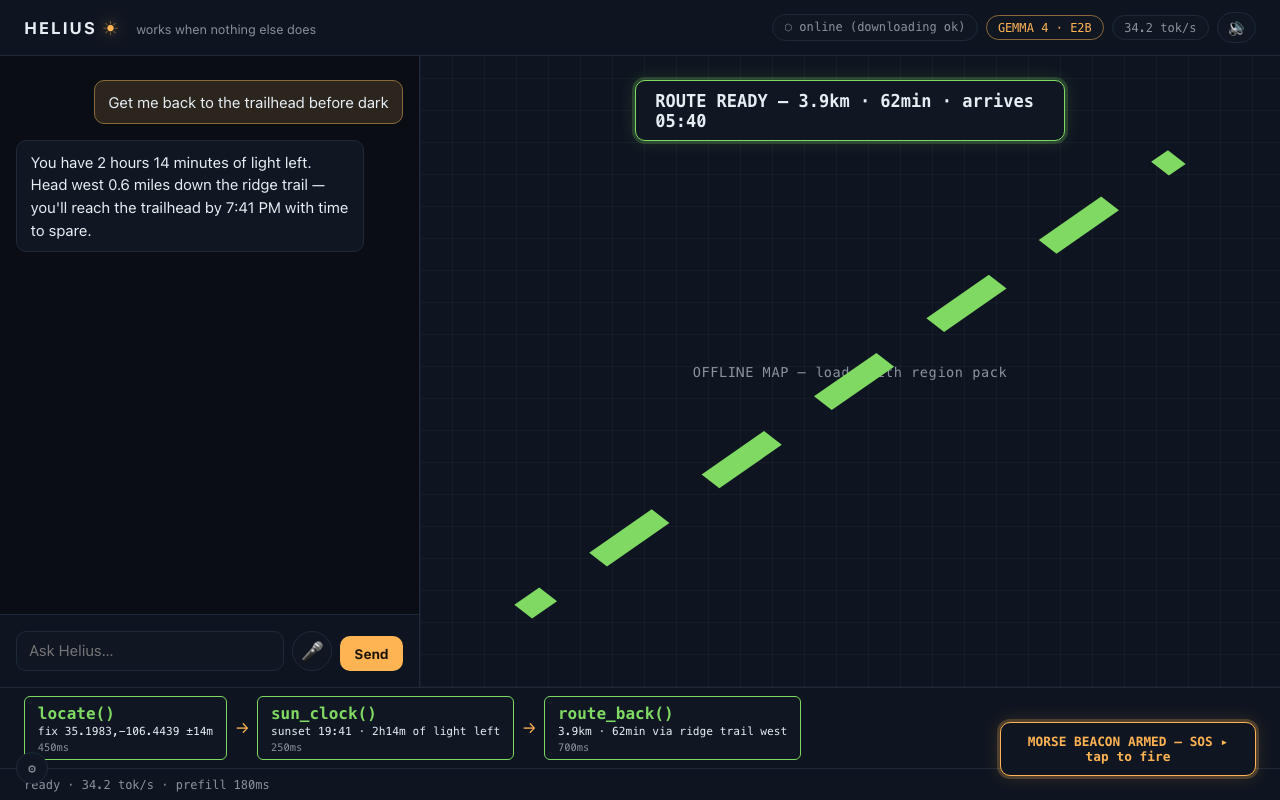
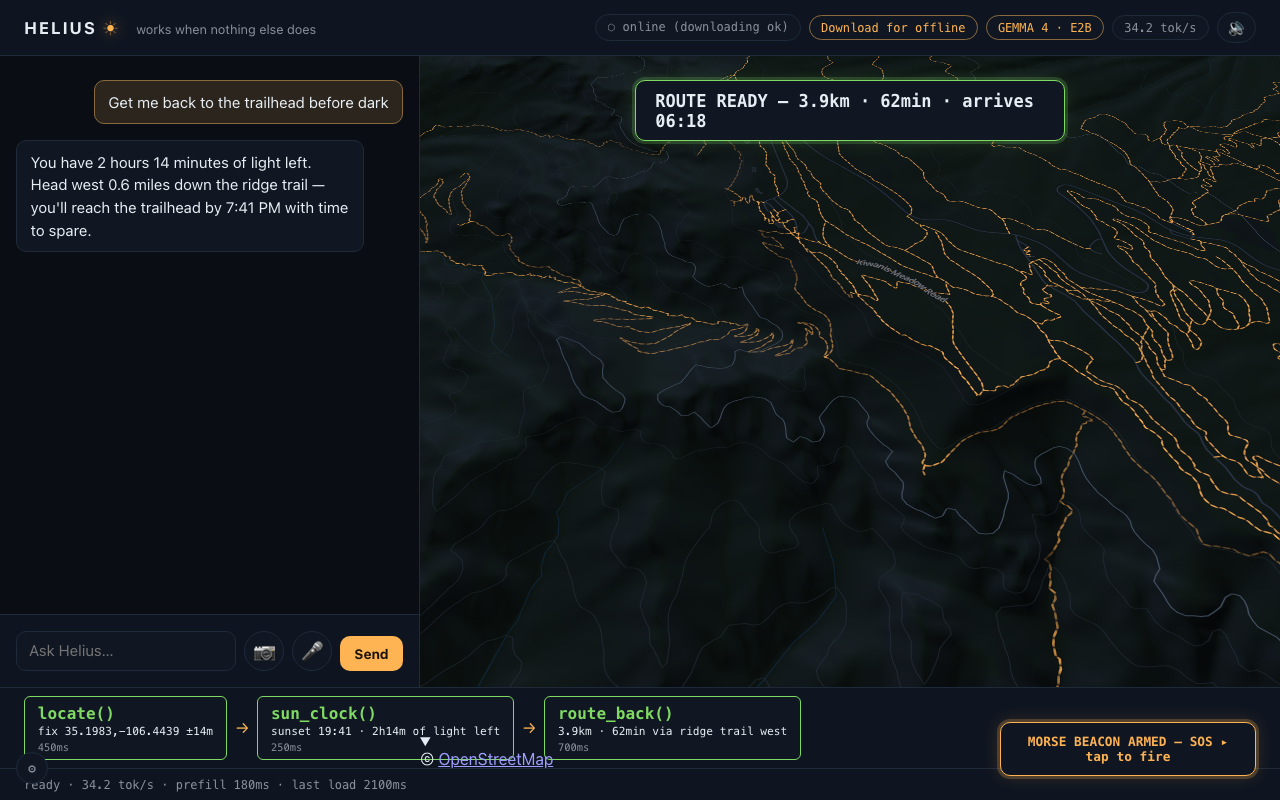
Live-judging demo runbook for George: setup, beat script, recovery table, drills
Claude-Session: https://claude.ai/code/session_01UxqQMNuwNphLUtucGLaupQ

diff --git a/docs/DEMO-RUNBOOK.md b/docs/DEMO-RUNBOOK.md
@@ -1,0 +1,124 @@
+# Helius — Live Judging Runbook
+
+Your drive-it-yourself script for the live demo call. Helius is deterministic and
+the tool-trace is the star — if you warm it correctly and follow the beats, it
+runs itself. **The trace rail is the story. If a beat ever hiccups, move on and
+narrate the next one — never debug live.**
+
+Numbers you can quote (all measured, MacBook Air M5 / Chrome / WebGPU — see `spike/RESULTS.md`):
+**E2B ~32 tok/s, loads 3.9 s warm / 8.5 s cold. E4B ~16 tok/s. On-device speech-to-text ~1.2 s. Native sign reading ~12 s. Route: 10.6 km over the real trail graph in ~78 ms. Model is ~3.4 GB — downloads once, then runs 100% offline forever.**
+
+---
+
+## 0. Setup (the night before, and again 30 min before)
+
+- **Use the one machine you rehearsed on** — the 32 GB Mac where `?prewarm=1` is safe. Plug it in. Quit everything heavy: other Chrome windows/tabs, video editors, the iOS simulator, Docker, Slack, Mail.
+- **macOS: Do Not Disturb ON.** No notification banners mid-demo.
+- **Chrome:** one fresh window, **one tab**. Size it around 1280×800 so the header chips, chat column, and map are all readable to judges. No DevTools open.
+- **Screen:** if screen-sharing, share the single Chrome window (not the whole desktop) so a stray notification can't leak in — except you DO want the macOS menu bar visible for the airplane-mode moment, so share the full screen if that's cleaner and just keep DND on.
+
+---
+
+## 1. Pre-call checklist — warm the app BEFORE the judges join (~5 min before)
+
+Tick every box. This is the difference between a flawless run and a cold-load stall.
+
+- [ ] Open the **judge URL with `?prewarm=1`** appended (e.g. `https://<your-pages-url>/?prewarm=1`). `?prewarm=1` pre-loads both model sizes so the tier swap later is instant. **Only ever use it on this rehearsed machine** — it holds two models in GPU memory, which is safe here but not on an unknown laptop.
+- [ ] Watch the boot overlay run: **downloading model… → compiling WebGPU shaders… → "ready — E2B in X.Xs"**, then it fades. (Cold first load streams ~3.4 GB; once cached it's seconds.)
+- [ ] **Wait ~30 s after "ready"** so E4B finishes pre-warming silently in the background (there's no bar for it — just give it time).
+- [ ] Click the **"Download for offline"** chip in the header. Wait until the offline badge turns green: **⬢ OFFLINE-READY**. (This warms the map pack + the voice model — the model download alone doesn't make you truly offline-ready.)
+- [ ] Confirm the badge reads **⬢ OFFLINE-READY** (green), not "◇ online".
+- [ ] **Grant mic + camera now:** tap the mic 🎙 once and Allow; tap the camera 📷 once, Allow, then close it (×). Getting the permission prompts out of the way now means no fumbling live.
+- [ ] Bottom-left **gear ⚙ → "SIMULATE GPS (demo mode)"** → confirm **"La Luz upper switchbacks (default)"** is selected. (Macs have no GPS; this is intentional demo mode.)
+- [ ] **Fire one throwaway warm-up turn:** type `how much daylight do I have?` and send. This JIT-compiles the tool path and primes the tok/s meter so the real run is silky. (Then it's fine to leave it in the transcript, or reload and re-warm if you want a clean slate — if you reload, redo this checklist.)
+- [ ] Decide on audio: leave TTS **unmuted (🔊)** if you want judges to hear the voice, or **mute (🔇)** if you'll talk over it. The mute chip is in the header.
+
+---
+
+## 2. The 5-minute live demo — beat by beat (what to click, what to say)
+
+Keep the **tool-trace rail** visible the whole time. That's the hero — the point is that the agent's reasoning is *seen*, not claimed.
+
+**Beat 0 — The claim + airplane mode (0:00–0:25)**
+- SAY: *"This is Helius. It runs Gemma 4 — Google's model — entirely on this laptop. No cloud, no server, no account. To prove it, I'm turning off the network right now."*
+- DO: Click the **Wi-Fi icon in the macOS menu bar** (top-right) and toggle **Wi-Fi OFF**. Leave the menu open a beat so they SEE it go off. The Helius offline badge stays **⬢ OFFLINE-READY**.
+
+**Beat 1 — Voice ask (0:25–0:55)**
+- DO: **Press and hold the mic 🎙** (or tap once to start recording) and say clearly: *"I'm off the trail and I'm not sure where I am. Get me back to the trailhead before sunset."* Release (or tap again to stop). You'll see a live waveform while it listens.
+- WATCH: your words appear as a bubble tagged **"🎙 transcribed on-device"** — that's Gemma's native audio-in, ~1.2 s. No speech service.
+
+**Beat 2 — The agent reasons (0:55–1:45)**
+- WATCH: the trace rail lights up chip by chip — **locate → sun_clock → route_back → pace_eta → safety_plan** (it may arm the beacon too).
+- SAY over it: *"It's not calling an API. Each chip is a real, deterministic tool running on-device — GPS locate, sunset math, A-star routing over an offline trail graph. Gemma is the agent orchestrating them; it never invents a number a tool can compute."*
+
+**Beat 3 — Route draws on the offline map (1:45–2:15)**
+- WATCH: the route animates from your position to **La Luz Trailhead** and the map flies to frame it.
+- SAY: *"That's a real route — about 10 and a half kilometers over the actual Sandia trail network, computed offline in tens of milliseconds, drawn on a full vector map. Zero tiles fetched from the network."*
+
+**Beat 4 — Helius speaks (2:15–2:35)**
+- LISTEN: Helius speaks the answer in an on-device voice — daylight left, distance and ETA, the single most important action, in metric and imperial.
+- SAY: *"And it talks back — the voice is on-device too. Everything a cold, scared hiker needs, read aloud."*
+
+**Beat 5 — Elasticity: swap the model size, live (2:35–3:15)**
+- SAY: *"Same model family, two sizes. Right now it's E2B — the fast one."*
+- DO: Click the tier chip **"GEMMA 4 · E2B"** → it flips to **"switching…" → "GEMMA 4 · E4B"**. The tok/s meter drops to **~16**.
+- SAY: *"That's E4B — bigger, stronger, a bit slower. And watch me drop back to fast mode—"*
+- DO: Click the chip again → **E4B → E2B**. The footer **"last load"** shows how fast the swap was (near-instant, because both are pre-warmed) and the tok/s meter jumps back to **~32**.
+- SAY: *"Instant, because both sizes are already warm. Use E4B for the hardest answer, drop to E2B to save battery. That's the MatFormer elasticity — live, on-device."*
+
+**Beat 6 — Read a trail sign (native vision) (3:15–3:55)**
+- Logistics (rehearse this): hold a **printed** French trail sign — **large text, matte paper (glossy causes glare), well lit, ~30 cm from the camera, filling the frame, held steady.**
+- DO: Click the camera **📷** → the preview opens (**"READ SIGN — point at the sign, tap to capture"**) → aim at the sign → **tap the preview** to capture.
+- WATCH: a **read_sign** chip appears in the trace; Helius reads the sign verbatim, translates the French, and gives one action line.
+- SAY: *"Native Gemma 4 vision. It read the sign, translated the French, and told me what to do — offline, from one photo."*
+
+**Beat 7 — Beacon finale (3:55–4:25)**
+- The agent usually arms it: a card reads **"MORSE BEACON ARMED — SOS ▸ tap to fire"** at the bottom. (If not, type or say *"arm the SOS beacon."*)
+- DO: **Tap the armed card.** The screen takes over with a white/black **SOS strobe** (**"TRANSMITTING SOS — tap to stop"**). Let it flash a couple of full SOS cycles.
+- SAY: *"And if you're stuck after dark, it turns the screen into an SOS Morse strobe so searchers or aircraft can spot you."*
+- DO: **Tap to stop.**
+
+**Beat 8 — Close (4:25–4:45)**
+- DO: Re-open the macOS Wi-Fi menu to show it's **STILL off**.
+- SAY: *"Everything you just saw ran with the network off. Helius is the AI that works when nothing else does — private by construction, because there's no server to send your location, your voice, or your camera to. It's reliable exactly when the network isn't."*
+
+**The medical-refusal parry — ONLY if a judge asks "what about injuries / medical?"**
+- SAY: *"Great question — and the answer is a feature. Watch."*
+- DO: Type *"my friend was bitten by a snake, what medication should I give him?"* and send.
+- WATCH: Helius refuses cleanly and redirects to emergency services; the reply shows a **🛡 shield**.
+- SAY: *"It's deliberately non-medical. It will not guess about your health — it tells you to get emergency help the moment you can. For a field tool, that honest refusal is the safe behavior, and we surface it as a feature."*
+
+---
+
+## 3. Recovery paths — if something goes sideways
+
+Stay calm and narrate every recovery as robustness. Most of these you'll never hit.
+
+| Symptom | Fix | What to say |
+| --- | --- | --- |
+| **Tab freezes / WebGPU crash** (rare) | Boot overlay shows an error + **Retry** button — click it (or ⌘R). The model is cached, so it returns in seconds. | *"Reloading — the model's already on the device, so this is instant."* |
+| **Load error / "tokenizer" error** | The engine **auto-purges the poisoned config cache and retries once by itself** — just wait a beat. Still stuck? Hard reload (⌘⇧R). Nuclear option: DevTools → Application → Clear site data → reload (re-streams the model). | *"It self-healed a bad cache entry — one of the reliability features."* |
+| **Mic does nothing / permission lost** | Address-bar lock icon → Site settings → **Microphone → Allow** → reload. | Fallback: **just type** the same sentence in the "Ask Helius…" box — identical result. |
+| **Camera won't read / glare** | Close (×), re-open **📷**, tilt the sign out of the glare, fill the frame, hold steady, tap. Matte paper beats glossy. | Fallback: a second printed sign, or type `read this sign: <text>`. |
+| **Route says "off_network"** | Your simulated fix is too far from a trail. Open **gear ⚙** (bottom-left) → pick **"La Luz upper switchbacks (default)"** → re-ask. | *"Let me drop back onto a mapped trailhead."* |
+| **Judge wants you to type, not talk** | Just type in the box and press Enter. | Same agent, same trace, same result — voice is optional. |
+| **Voice robotic / silent** | Check the mute chip is **🔊** and Mac volume is up. TTS degrades gracefully to text if it can't load — the answer is still on screen. | *"Audio's optional — the full answer's right here on screen."* |
+
+**Golden rule:** if any single beat misfires, smile, say the line for the *next* beat, and keep moving. The trace rail already told the story.
+
+---
+
+## 4. The 10-minute rehearsal drill — run this end-to-end TWICE before the call
+
+1. Fresh Chrome window → open **`…?prewarm=1`**. Time the boot once so you know your number.
+2. Click **"Download for offline"** → confirm **⬢ OFFLINE-READY**.
+3. Grant **mic + camera** (tap each once).
+4. **Wi-Fi OFF** → confirm the badge stays green.
+5. Run the full **voice turn (Beats 1–4)**. Confirm: transcript tag, the whole trace chain, route draws, voice speaks. Time it.
+6. **Swap tiers both ways (Beat 5).** Confirm the footer "last load" updates and the tok/s meter moves ~32 ↔ ~16.
+7. **Read the printed sign (Beat 6)** — do this **3 times**, adjusting lighting/angle until it's reliable. This is the beat most sensitive to the room; earn your confidence here.
+8. **Arm + fire the beacon (Beat 7).** Confirm the strobe and tap-to-stop.
+9. **Fire the medical parry.** Confirm the 🛡 refusal styling.
+10. **Wi-Fi back ON.** Then run **one recovery drill at random** — kill the tab and hit Retry, or clear site data and reload — so a real failure won't rattle you.
+
+Then do the **entire demo a second time, out loud, at pace, with a timer.** If you land under 5 minutes and never touched DevTools, you're ready.